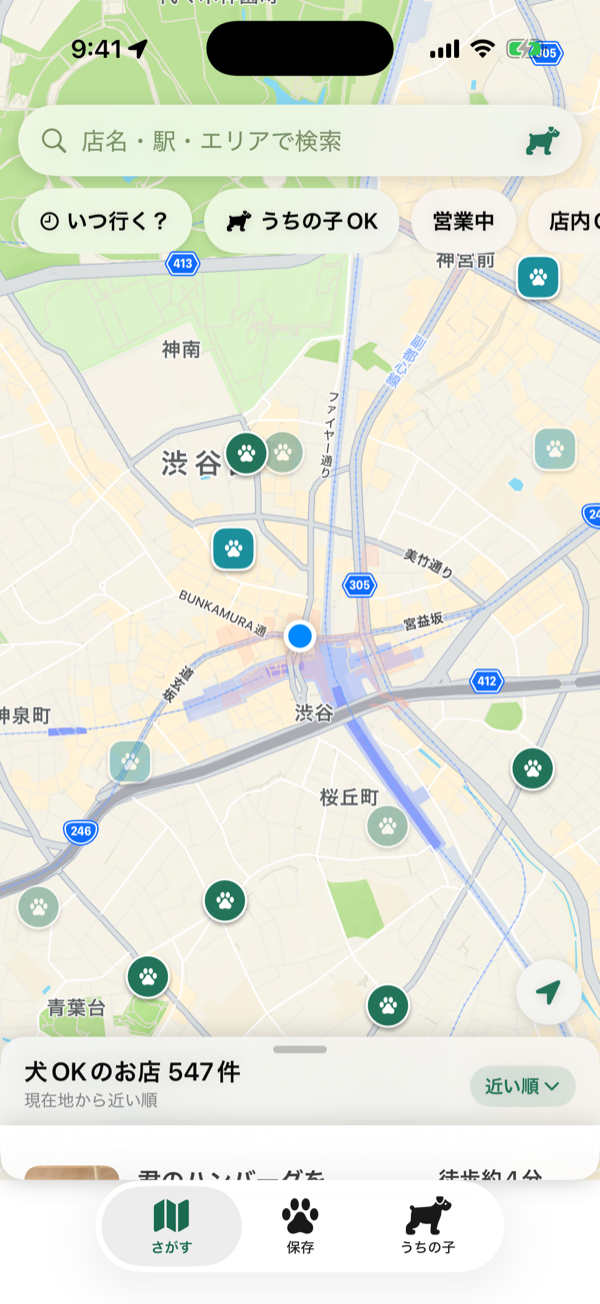
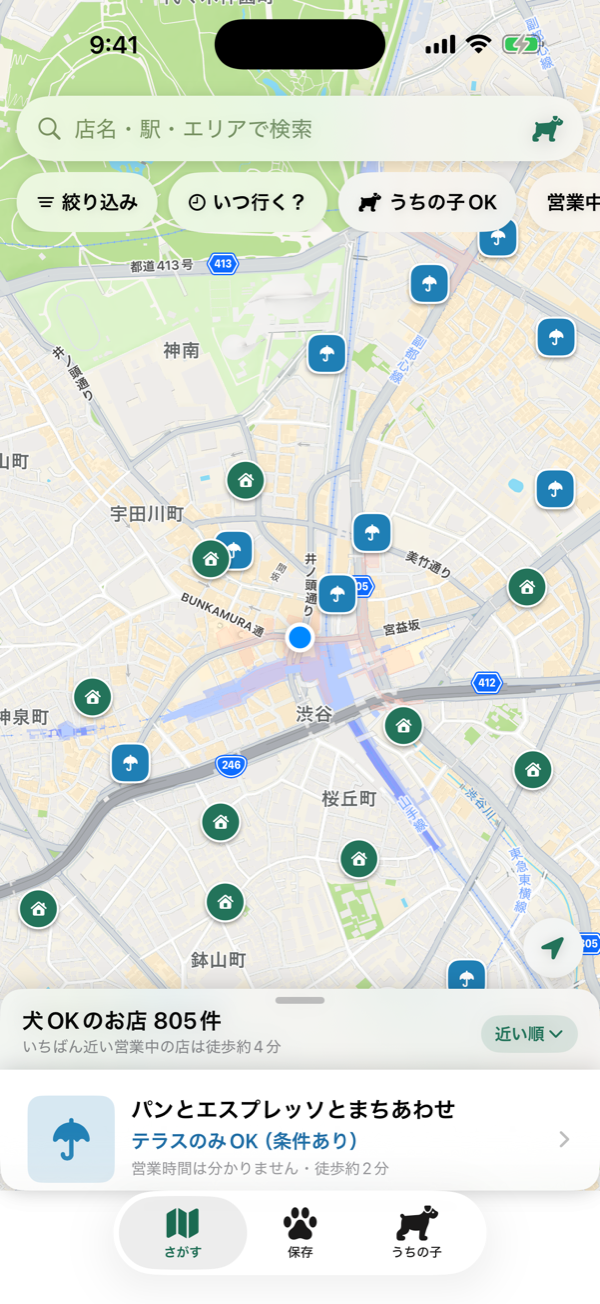
docs: App Store 用スクリーンショット5枚と README 用3枚を最新の画面で撮り直し
ピン・一覧の行・答えのカードの新しい画面に合わせて iPhone 17 Pro Max で撮影。
営業の基準時刻は撮影用に金曜13:00へ固定し、写真プレビューは無効化（実在店の写真を写さない）。
撮影の記録を screenshots.md に追記し、submission-checklist.md §6 に画像の場所を追記。

Claude-Session: https://claude.ai/code/session_019zkcAEuFg4zVZq5VyKun4C

diff --git a/docs/appstore/screenshots.md b/docs/appstore/screenshots.md
@@ -1,7 +1,7 @@
 # App Store スクリーンショット撮影ガイド（再設計後・6.9 インチ）
 
 > 2026-10-26 新規（再設計 段階4）。提出手順の全体は `submission-checklist.md` §6。文面は `store-listing.md`。
-> **2026-11-13: ピンの絵柄（家・傘・？）とテラスの色（青）、一覧の行（3行・答えの1行）を変えたので、撮り直しが必要。**
+> 2026-11-13: ピンの絵柄（家・傘・？）とテラスの色（青）、一覧の行（3行・答えの1行）に合わせて撮り直し済み。画像は `docs/appstore/screenshots/` にあり、そのまま App Store Connect にドラッグできる（下の「撮影の記録」）。
 
 ## 仕様
 
@@ -57,3 +57,22 @@ xcrun simctl status_bar booted clear
 - [ ] 「サンプルデータ表示中」バナーなし・架空の店なし
 - [ ] 「うちの子OK」「いつ行く？」「答えのカード」「根拠」が各 1 枚以上に写っている
 - [ ] キャプションは誇張なし（推測で OK と言わない原則と矛盾しない）
+
+## 撮影の記録（2026-11-13）
+
+- 機種: iPhone 17 Pro Max シミュレータ（1320 × 2868 px）。ステータスバー 9:41・満充電・Wi-Fi/電波満・ライト・文字サイズ large・位置は渋谷（35.6595, 139.7005）・位置情報は許可済み。うちの子は「小型犬」に設定。本番の `cafes.json`（859件・サンプルバナーなし）。
+- 営業の基準時刻: 実時刻（朝）では営業中の店が並ばないため、撮影用の作業コピーで**「今」を 2026-11-13（金）13:00 に固定**して撮影（アプリが時刻を読む入口だけ差し替え。表示を描くコードは本番と同じ）。ステータスバーは 9:41 のまま。場面2は固定した「今」から見た翌日の土曜 12:00。
+- 写真: 作業コピーで**写真プレビューの取得を無効化**（初回起動で写真がまだ無い状態と同じ。一覧・カードは絵柄のタイル）。実在店の外観写真・Instagram 埋め込みは写っていない。
+- 画像の加工・合成・キャプションの焼き込みなし（素の撮影）。
+
+| ファイル | 場面 | 写っている店 | 選んだ理由（権利面ほか） |
+|---|---|---|---|
+| `01_now.png` | 散歩中に今入れる店（半分の一覧・「営業中」「うちの子OK」オン・466件） | アティックルーム (attic room)・347CAFE & LOUNGE・attic room LOG（距離順の先頭3件） | 絞り込み条件の結果をそのまま表示（特定の店を選んでいない）。写真なし・警告なし |
+| `02_plan.png` | 週末の計画（「いつ行く？」シート・土曜 12:00・「470件を表示」） | 一覧は背景に隠れる | 店名は写らない |
+| `03_dog.png` | うちの子が入れるか（詳細の先頭） | Dog Salon & Cafe Karin堂（渋谷区） | 公式サイト・食べログ・Instagram のリンクが無く、先頭が小さな地図の帯になる（写真の権利問題なし）。店内可・営業時間・確認日あり、食い違いなし |
+| `04_evidence.png` | 確認の根拠シート（出典の種類・確認日・参考記事） | Dog Salon & Cafe Karin堂 | 3と同じ店で「判定→根拠」を一続きに見せる。出典はブログ3件・確認日 2026年7月18日 |
+| `05_saved.png` | 保存タブ「行きたい（4）」 | Tweedles・i2 cafe・347CAFE & LOUNGE・attic room LOG | いずれも公式・SNS リンクなしか写真を出さない店。営業中・徒歩の目安つき。警告なし |
+
+README 用（`docs/screenshots/`、幅 600 px に縮小）: `home.png`（さがすタブ・初期状態・一覧は一番小さい段）、`detail.png`（`03_dog.png` の縮小）、`onboarding.png`（「うちの子のことを教えてください」・初回起動のまま）。
+
+注意: 営業中・営業時間の表示は固定した「今」（金曜 13:00）のもの。公開後に同じ画面を開いても時刻によって表示は変わる。

diff --git a/docs/appstore/submission-checklist.md b/docs/appstore/submission-checklist.md
@@ -43,6 +43,8 @@
 | 4 | 根拠が見える（根拠の1行／根拠のシート） | **最大の差別化（推測しない・出典と確認日つき）。必ず撮る** |
 | 5 | 保存タブ（行きたい） | 計画に使える |
 
+撮影済みの画像は **`docs/appstore/screenshots/`（`01_now.png`〜`05_saved.png`、1320 × 2868 px）**。そのまま App Store Connect の 6.9" 欄にドラッグできる（撮影の記録は `screenshots.md`）。
+
 - **架空・サンプルデータの店が写り込まないこと**（本番 cafes.json 配信後に撮る）。
 - 実在店の外観写真・Instagram 埋め込みが写る場合は、権利面で避けるか写真が出ない店を選ぶ（`screenshots.md` 参照）。
 - 【AI】撮影用に画面状態を作るためのデバッグ設定の提案（コード変更は本人の承認後）、サイズ検証、キャプション文案。
